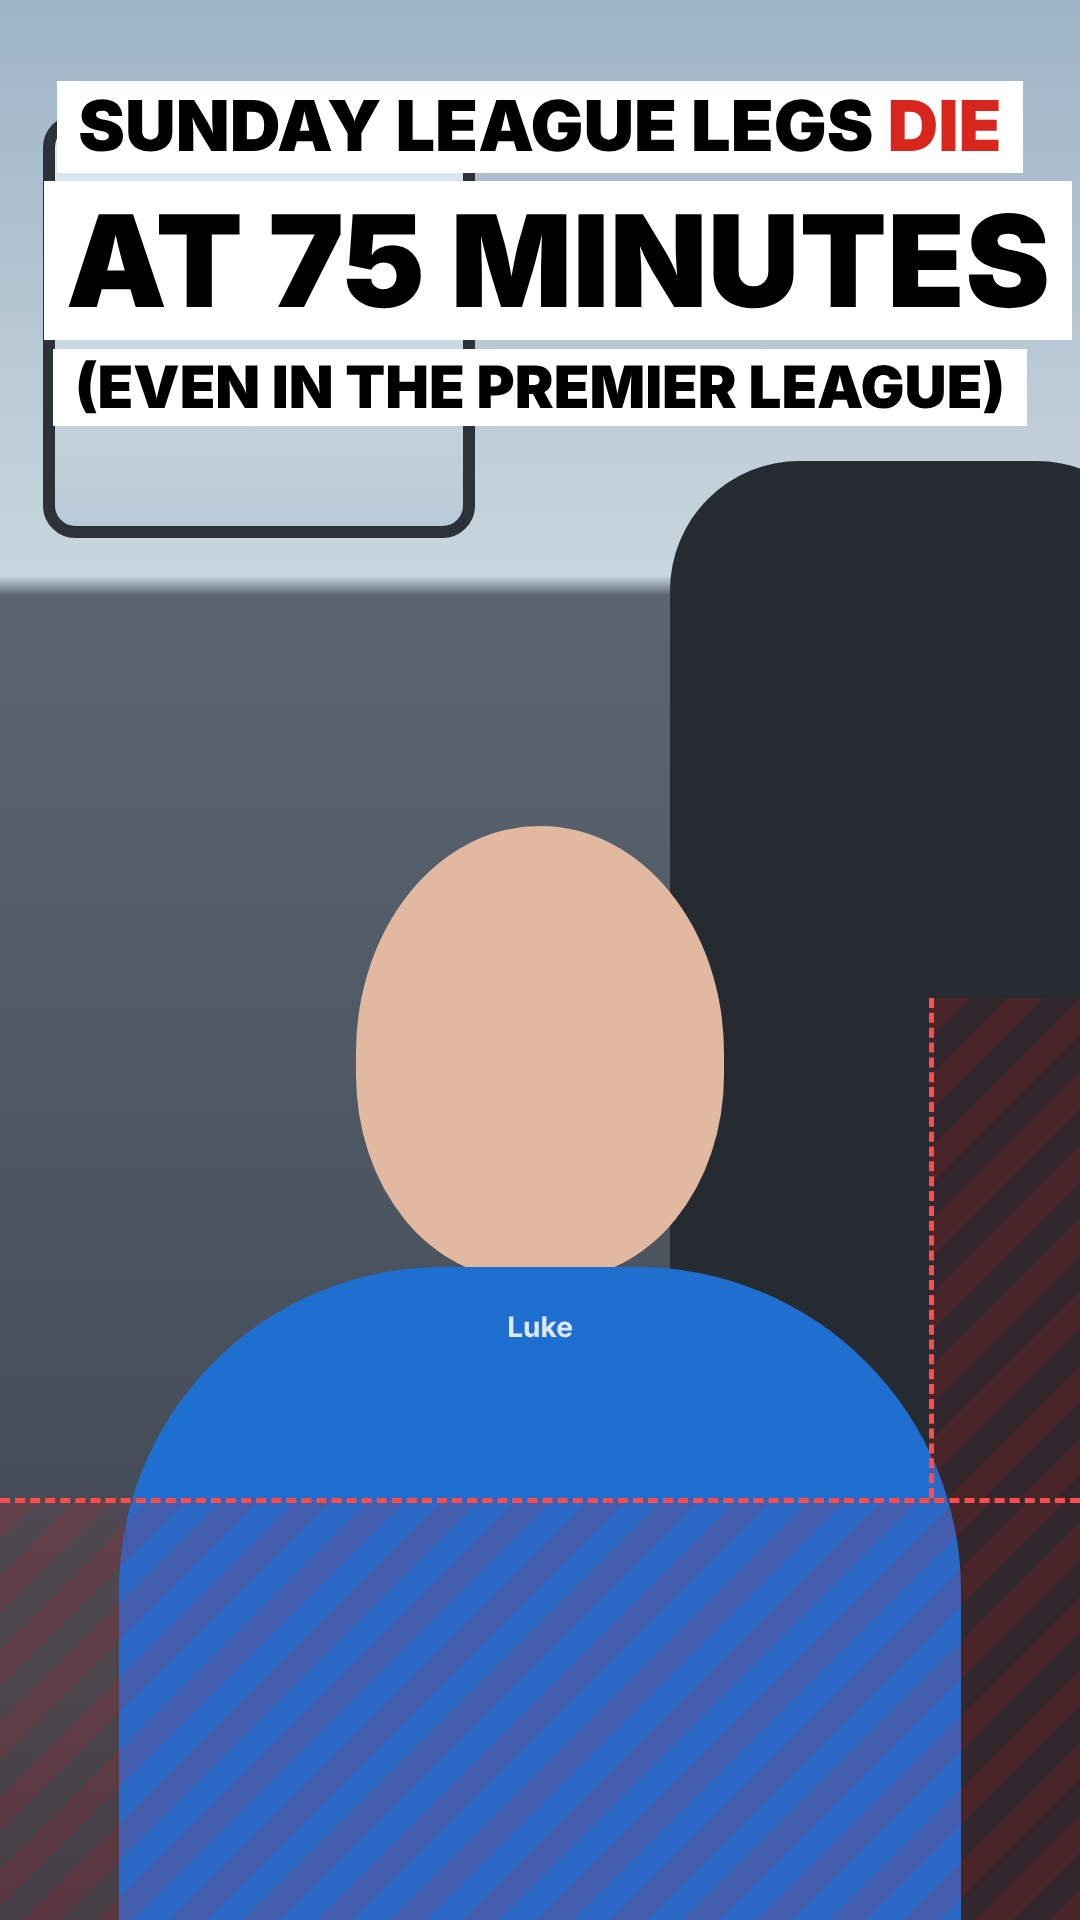
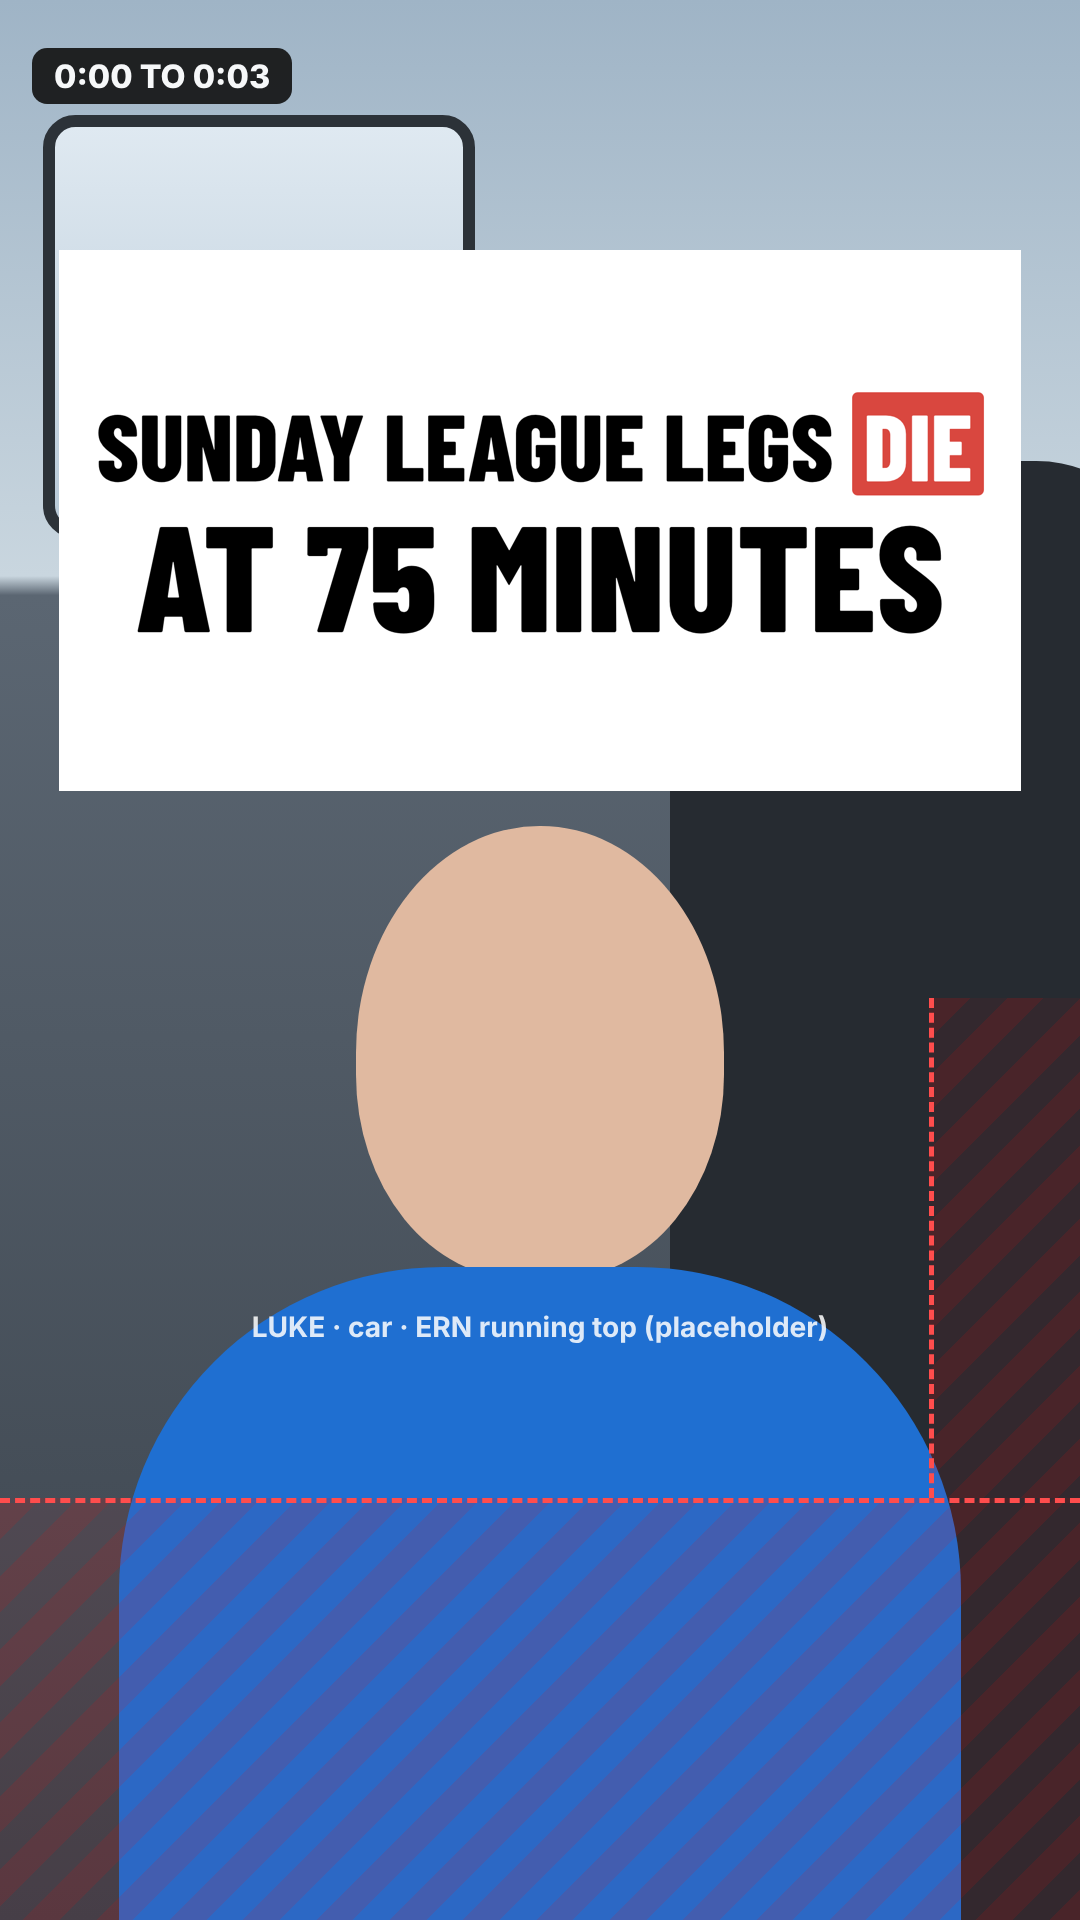
Match reel graphics: title cards (white and navy, 2 and 3 lines) and 9:16 overlays, the cover with a drawn wet-pitch scene, stage cards with source lines; frame one checked at phone size
Claude-Session: https://claude.ai/code/session_019dGKws7fHV6RYzHGcGrSoU

diff --git a/motion/match/cover.html b/motion/match/cover.html
@@ -1,0 +1,104 @@
+<!doctype html><html><head><meta charset="utf-8"><title>Match cover</title>
+<!-- Cover for SUNDAY LEAGUE LEGS DIE / AT 75 MINUTES (17 Nov), in the hour4-cover-16x9 layout: title left, drawn scene in a rounded panel right,
+     ERN logo bottom left. Characters from the hour4 scenes' engine (motion/hour4-scenes.html). ?lines=2|3 -->
+<style>
+@font-face{font-family:'Barlow Condensed';font-weight:800;src:url(../fonts/BarlowCondensed-800-normal.woff2) format('woff2');}
+*{margin:0;padding:0;box-sizing:border-box}
+html,body{width:1920px;height:1080px;overflow:hidden;background:#0c1828}
+.t{position:absolute;left:80px;top:0;bottom:0;width:900px;display:flex;flex-direction:column;justify-content:center}
+.l{font-family:'Barlow Condensed',sans-serif;font-weight:800;color:#fff;line-height:1.04;white-space:nowrap;width:max-content}
+.hl{background:#d9473f;color:#fff;padding:0 .12em;display:inline-block;line-height:1.1;border-radius:.08em}
+#panel{position:absolute;left:1040px;top:160px;width:840px;height:760px;border-radius:40px;overflow:hidden}
+.logo{position:absolute;left:80px;bottom:56px;height:76px}
+</style></head><body>
+<div class="t" id="t"></div><canvas id="panel" width="840" height="760"></canvas><img class="logo" src="../brand/ern-logo-white.png">
+<script>
+const D=Math.PI/180; const clamp=(x,a=0,b=1)=>Math.max(a,Math.min(b,x)); const lerp=(a,b,p)=>a+(b-a)*p;
+function rng(seed){return function(){seed|=0;seed=seed+0x6D2B79F5|0;let t=Math.imul(seed^seed>>>15,1|seed);t=t+Math.imul(t^t>>>7,61|t)^t;return((t^t>>>14)>>>0)/4294967296}}
+function shade(hex,k){const n=parseInt(hex.slice(1),16);const f=v=>Math.round(clamp(v*(1-k),0,255));return `rgb(${f(n>>16&255)},${f(n>>8&255)},${f(n&255)})`}
+const css=()=>'#1f7ae0';
+const cv=document.getElementById('panel'); let c=cv.getContext('2d');
+const SKIN=['#f1c7a3','#d8a07a','#a86f4c','#7a4a2e','#f3d2b8','#c98b62']; const HAIR=['#2a1d15','#6b4528','#c99a5b','#1a1a1a','#8a3b1f','#d9c3a0'];
+function seg(x1,y1,x2,y2,w,col){c.strokeStyle=col;c.lineWidth=w;c.beginPath();c.moveTo(x1,y1);c.lineTo(x2,y2);c.stroke()}
+function leg(hx,hy,a,k){const kx=hx+44*Math.sin(a*D),ky=hy+44*Math.cos(a*D),s=a+k,ax=kx+44*Math.sin(s*D),ay=ky+44*Math.cos(s*D),f=s+90;
+  return{kx,ky,ax,ay,fx:ax+15*Math.sin(f*D),fy:ay+15*Math.cos(f*D)}}
+function arm(sx,sy,a,e){const ex=sx+32*Math.sin(a*D),ey=sy+32*Math.cos(a*D),b=a+e;return{ex,ey,hx:ex+30*Math.sin(b*D),hy:ey+30*Math.cos(b*D)}}
+/* o: x, g (ground y), s (scale), f (1 faces right, -1 left), look, pose, plus colours; returns hand positions in screen space */
+function person(o){
+  const p=Object.assign({hipN:0,hipF:0,kneeN:0,kneeF:0,shN:6,shF:-6,elN:12,elF:12,lean:2,head:0,lift:0},o.pose||{});
+  const L=Object.assign({top:'#8aa0b8',shorts:'#2c3a4d',skin:SKIN[1],hair:HAIR[0],shoe:'#ffffff'},o.look||{});
+  c.save();c.translate(o.x,o.g);c.scale((o.f||1)*o.s,o.s);c.lineCap='round';c.lineJoin='round';
+  if(o.alpha!=null)c.globalAlpha=o.alpha;
+  const lN=leg(0,0,p.hipN,p.kneeN),lF=leg(0,0,p.hipF,p.kneeF);
+  const hipY=-(Math.max(lN.ay,lF.ay,lN.fy,lF.fy)+7)-p.lift;
+  const T=64,lx=Math.sin(p.lean*D),ly=-Math.cos(p.lean*D);
+  const sx=(T-8)*lx,sy=hipY+(T-8)*ly,nx=T*lx,ny=hipY+T*ly;
+  const hd=p.lean+p.head,hx=nx+19*Math.sin(hd*D),hy=ny-19*Math.cos(hd*D);
+  const aN=arm(sx,sy,p.shN,p.elN),aF=arm(sx,sy,p.shF,p.elF);
+  const drawLeg=(l,a,far)=>{const sk=far?shade(L.skin,.12):L.skin,sh=far?shade(L.shorts,.15):L.shorts;
+    seg(0,hipY,l.kx,l.ky+hipY,19,sk);seg(l.kx,l.ky+hipY,l.ax,l.ay+hipY,16,sk);
+    seg(0,hipY,l.kx*.55,l.ky*.55+hipY,25,sh);seg(l.ax,l.ay+hipY,l.fx,l.fy+hipY,14,far?shade(L.shoe,.12):L.shoe)};
+  const drawArm=(a,far)=>{const sk=far?shade(L.skin,.12):L.skin;seg(sx,sy,a.ex,a.ey,13,sk);seg(a.ex,a.ey,a.hx,a.hy,12,sk);
+    seg(sx,sy,lerp(sx,a.ex,.45),lerp(sy,a.ey,.45),17,far?shade(L.top,.15):L.top)};
+  drawArm(aF,true);drawLeg(lF,0,true);
+  seg(0,hipY-4,sx,sy,40,L.top);
+  if(L.bib){c.save();c.translate(lerp(0,sx,.45),lerp(hipY,sy,.45));c.rotate(p.lean*D);c.fillStyle='#fff';c.fillRect(4,-15,17,30);c.fillStyle=css('blue');c.fillRect(4,-15,17,7);c.restore()}
+  if(L.name){c.save();c.translate(lerp(0,sx,.32)+6*lx,lerp(hipY,sy,.32));c.rotate(p.lean*D);c.fillStyle='#0b0b0b';c.font='italic 800 21px Barlow';c.textAlign='center';c.textBaseline='middle';c.fillText(L.name,6,0);c.restore()}
+  drawLeg(lN,0,false);
+  if(o.prop==='sign'&&o.sign){} // signs are drawn by the caller at the hands
+  drawArm(aN,false);
+  c.fillStyle=L.skin;c.beginPath();c.arc(hx,hy,17,0,7);c.fill();
+  c.fillStyle=L.hair;c.beginPath();c.arc(hx,hy,18,Math.PI*.92+hd*D,Math.PI*1.9+hd*D);c.closePath();c.fill();
+  c.fillStyle='#1a1410';c.beginPath();c.arc(hx+9*Math.cos(hd*D)+3*Math.sin(hd*D),hy+3*Math.cos(hd*D)+9*Math.sin(hd*D)-2,2.6,0,7);c.fill();
+  if(L.pony){c.beginPath();c.arc(hx-14*Math.cos(hd*D),hy+2,7,0,7);c.fill()}
+  if(L.cap){c.fillStyle=L.cap;c.beginPath();c.arc(hx,hy,16.5,Math.PI*1.0+hd*D,Math.PI*2.0+hd*D);c.fill();seg(hx+4,hy-3,hx+24,hy-1,5,L.cap)}
+  c.restore();
+  const tf=(x,y)=>({x:o.x+(o.f||1)*o.s*x,y:o.g+o.s*y});
+  return{handN:tf(aN.hx,aN.hy),handF:tf(aF.hx,aF.hy),head:tf(hx,hy),chest:tf(lerp(0,sx,.5),lerp(hipY,sy,.5))}}
+function run(ph,amp=1,lean=9){const a=ph*Math.PI*2;return{hipN:32*amp*Math.sin(a),hipF:32*amp*Math.sin(a+Math.PI),
+  kneeN:-(10+85*amp*Math.max(0,Math.cos(a))),kneeF:-(10+85*amp*Math.max(0,Math.cos(a+Math.PI))),
+  shN:-30*amp*Math.sin(a),shF:30*amp*Math.sin(a),elN:88,elF:88,lean,lift:7*amp*Math.abs(Math.cos(a))}}
+function mix(a,b,p){const o={};for(const k in a)o[k]=lerp(a[k],b[k]!=null?b[k]:a[k],p);return o}
+const Q=new URLSearchParams(location.search), n=+(Q.get('lines')||3);
+// ---- the scene: a wet Sunday league pitch, overcast ----
+const W=840,H=760,GY=600;
+c.fillStyle='#dfe4e8';c.fillRect(0,0,W,H);                         // overcast sky
+const r=rng(11);
+c.fillStyle='#b9c6b5';for(let x=-40;x<W+40;x+=46){c.beginPath();c.arc(x,330+r()*14,40+r()*18,0,7);c.fill()}   // far hedge
+c.fillStyle='#9fb39a';c.fillRect(0,330,W,26);
+c.fillStyle='#8a96a6';for(let x=40;x<W;x+=260){c.fillRect(x,250,6,110)}                                     // far fence posts
+c.fillStyle='#7fae6f';c.fillRect(0,356,W,H-356);                    // pitch
+for(let i=0;i<8;i++){c.fillStyle=i%2?'#78a868':'#86b576';c.beginPath();c.moveTo(-200+i*150,H);c.lineTo(-80+i*150,356);c.lineTo(-20+i*150,356);c.lineTo(-50+i*150,H);c.fill()}  // mown stripes
+c.strokeStyle='rgba(255,255,255,.85)';c.lineWidth=6;c.beginPath();c.moveTo(0,402);c.lineTo(W,388);c.stroke();   // touchline
+// mud and puddles
+const mud=(x,y,rx,ry,a)=>{c.fillStyle=`rgba(110,84,58,${a})`;c.beginPath();c.ellipse(x,y,rx,ry,0,0,7);c.fill()};
+mud(330,612,170,30,.55);mud(250,630,90,16,.45);mud(560,660,120,20,.35);
+c.fillStyle='rgba(205,220,232,.75)';c.beginPath();c.ellipse(640,700,90,14,0,0,7);c.fill();c.fillStyle='rgba(255,255,255,.5)';c.fillRect(600,697,40,3);
+c.fillStyle='rgba(20,30,20,.18)';c.beginPath();c.ellipse(320,GY+4,95,12,0,0,7);c.fill();c.beginPath();c.ellipse(700,GY+2,80,10,0,0,7);c.fill();
+// the tired player: plain off-white kit, muddy, hands on knees, facing right
+const TIRED={hipN:34,hipF:24,kneeN:-44,kneeF:-36,shN:-24,shF:-30,elN:0,elF:2,lean:66,head:-36,lift:0};
+const p1=person({x:300,g:GY,s:2.35,f:1,look:{top:'#ece8df',shorts:'#1f2a37',skin:SKIN[0],hair:HAIR[1],shoe:'#1a1a1a'},pose:TIRED});
+// mud on the kit and socks
+c.save();c.globalAlpha=.55;c.fillStyle='#7a5a3c';
+[[p1.chest.x+18,p1.chest.y+30,26,12],[p1.chest.x-30,p1.chest.y+6,16,10],[p1.chest.x+40,p1.chest.y-20,12,8]].forEach(([x,y,a,b])=>{c.beginPath();c.ellipse(x,y,a,b,.4,0,7);c.fill()});
+c.restore();
+// breath clouds
+c.fillStyle='rgba(255,255,255,.7)';[[p1.head.x+46,p1.head.y+14,14],[p1.head.x+70,p1.head.y+6,10],[p1.head.x+88,p1.head.y+2,7]].forEach(([x,y,R])=>{c.beginPath();c.arc(x,y,R,0,7);c.fill()});
+// the opponent: red kit, sprinting in from the right onto the ball
+const RUN=run(.12,1.15,14);
+person({x:700,g:GY,s:2.0,f:-1,look:{top:'#d9473f',shorts:'#d9473f',skin:SKIN[2],hair:HAIR[3],shoe:'#f5f5f5'},pose:RUN});
+// the ball rolling past, with spray
+const bx=520,by=GY-22,R=22;
+c.strokeStyle='rgba(255,255,255,.8)';c.lineWidth=5;c.lineCap='round';[[0,-12],[8,2],[0,14]].forEach(([dx,dy])=>{c.beginPath();c.moveTo(bx-40+dx,by+dy);c.lineTo(bx-90+dx,by+dy);c.stroke()});
+c.fillStyle='rgba(205,220,232,.9)';[[bx-30,by+18,5],[bx-48,by+12,4],[bx-60,by+20,3]].forEach(([x,y,r2])=>{c.beginPath();c.arc(x,y,r2,0,7);c.fill()});
+c.fillStyle='#fff';c.beginPath();c.arc(bx,by,R,0,7);c.fill();c.strokeStyle='#1d2433';c.lineWidth=3;c.stroke();
+c.fillStyle='#1d2433';const pent=(x,y,s)=>{c.beginPath();for(let i=0;i<5;i++){const a=-Math.PI/2+i*2*Math.PI/5;c.lineTo(x+s*Math.cos(a),y+s*Math.sin(a))}c.closePath();c.fill()};
+pent(bx,by,7);pent(bx+14,by-12,5);pent(bx-15,by+8,5);pent(bx+12,by+13,4);
+c.fillStyle='rgba(110,84,58,.5)';c.beginPath();c.ellipse(bx+6,by+14,10,4,0,0,7);c.fill();
+// ---- the title ----
+const t=document.getElementById('t');
+const add=(h,fs)=>{const d=document.createElement('div');d.className='l';d.innerHTML=h;d.style.fontSize=fs+'px';t.appendChild(d);return d};
+const ls=[add('SUNDAY LEAGUE LEGS <span class="hl">DIE</span>',120),add('AT 75 MINUTES',150)];
+if(n===3) ls.push(add('(EVEN IN THE PREMIER LEAGUE)',84));
+document.fonts.load("800 100px 'Barlow Condensed'").then(()=>{ls.forEach(d=>{let fs=parseFloat(d.style.fontSize);while(d.getBoundingClientRect().width>900&&fs>30){fs-=2;d.style.fontSize=fs+'px'}});document.title='fitted'});
+</script></body></html>

diff --git a/motion/match/cards.html b/motion/match/cards.html
@@ -1,0 +1,43 @@
+<!doctype html><html><head><meta charset="utf-8"><title>Match cards</title>
+<!-- SUNDAY LEAGUE LEGS DIE / AT 75 MINUTES / (EVEN IN THE PREMIER LEAGUE) (17 Nov): title cards and stage cards, 16:9.
+     ?c=title&theme=white|navy&lines=2|3   or   ?c=stage&n=1a|1b|2|3|4|study -->
+<style>
+@font-face{font-family:'Barlow Condensed';font-weight:800;src:url(../fonts/BarlowCondensed-800-normal.woff2) format('woff2');}
+@font-face{font-family:Inter;src:url(../fonts/Inter-400-normal.woff2) format('woff2');font-weight:100 900;}
+*{margin:0;padding:0;box-sizing:border-box}
+html,body{width:1920px;height:1080px;overflow:hidden}
+body.navy{background:#0c1828;color:#fff} body.white{background:#fff;color:#000}
+.w{position:absolute;inset:0;display:flex;flex-direction:column;justify-content:center;padding:0 150px}
+.white .w{align-items:center;padding:0 70px}
+.l{font-family:"Barlow Condensed",sans-serif;font-weight:800;line-height:1.02;white-space:nowrap;width:max-content}
+.hl{background:#d9473f;color:#fff;padding:0 .12em;display:inline-block;line-height:1.1;border-radius:.06em}
+.navy .hl{border-radius:.1em}
+.blue{background:#1f7ae0;color:#fff;padding:0 .14em;border-radius:.1em;display:inline-block;line-height:1.1}
+.eb{font-family:'Barlow Condensed',sans-serif;font-weight:800;font-size:72px;letter-spacing:6px;color:#9fb0c6;margin-bottom:18px}
+.src{font-family:Inter,sans-serif;font-weight:600;font-size:62px;line-height:1.3;color:#c9d3e0;margin-top:34px;letter-spacing:.5px}
+</style></head><body><div class="w" id="w"></div>
+<script>
+const Q=new URLSearchParams(location.search), c=Q.get('c')||'title', theme=Q.get('theme')||'navy';
+document.body.className=c==='title'?theme:'navy';
+const w=document.getElementById('w'); const fits=[];
+function line(html,cap,maxW){const d=document.createElement('div');d.className='l';d.innerHTML=html;w.appendChild(d);fits.push([d,cap,maxW]);return d}
+if(c==='title'){
+  const n=+(Q.get('lines')||3), maxW=theme==='white'?1780:1620;
+  line('SUNDAY LEAGUE LEGS <span class="hl">DIE</span>',210,maxW);
+  line('AT 75 MINUTES',300,maxW);
+  if(n===3) line('(EVEN IN THE PREMIER LEAGUE)',150,maxW);
+} else {
+  const S={ '1a':['STAGE 1','THE DAY <span class="blue">BEFORE</span>','28 PREMIER LEAGUE MATCHES, 2005-06 (BRADLEY 2009)'],
+            '1b':['STAGE 1','THE DAY <span class="blue">BEFORE</span>','6 PLAYERS, 90-MIN 4-A-SIDE (BALSOM 1999)'],
+            '2':['STAGE 2','3 HOURS <span class="blue">BEFORE</span>','UEFA EXPERT GROUP, 2021'],
+            '3':['STAGE 3','WARM-UP AND <span class="blue">HALF-TIME</span>','ARSENAL, 1996'],
+            '4':['STAGE 4','THE <span class="blue">LAST 15</span> MINUTES','15 PLAYERS, 90-MIN MATCH TEST (HARPER 2017)'],
+            'study':['THE STUDY','DANISH <span class="blue">FOURTH DIVISION</span>','31 PLAYERS (KRUSTRUP 2006)']}[Q.get('n')||'1a'];
+  const e=document.createElement('div');e.className='eb';e.textContent=S[0];w.appendChild(e);
+  line(S[1],230,1620);
+  const s=document.createElement('div');s.className='src';s.textContent=S[2];w.appendChild(s);
+}
+document.fonts.load("800 100px 'Barlow Condensed'").then(()=>document.fonts.load("600 40px Inter")).then(()=>{
+  fits.forEach(([d,cap,maxW])=>{let fs=cap;d.style.fontSize=fs+'px';while(d.getBoundingClientRect().width>maxW&&fs>40){fs-=2;d.style.fontSize=fs+'px';}});
+  document.title='fitted';});
+</script></body></html>

diff --git a/CLAUDE.md b/CLAUDE.md
@@ -222,7 +222,9 @@ a new cause becomes a new row in the same turn.**
 
 **Podcast name (17 Nov, recommended, plan 0.11): ON FUMES, running, sport and fuel, by Engine Room** (runner-up Dead Legs; The Race Plan rejected by Luke as generic, P217; FTYD kept as the Jan video title; "The Engine Room" is an existing endurance podcast). **Master podcast plan + episode template: Claude doc https://claude.ai/artifact/6LftEYohSrQKg6iTE96QpG.** **Fri 20 Nov: record podcast episode 1, THE BETS (v2, P216: equal co-hosts, both bets in the open, a one-page cue card, no crew; Luke Art O'Neill top 10 in class 10:35, Jamie Western Yards top 10; title 8 WEEKS OR 28; v3: four rounds (on the record, why you won't make it, 8 weeks or 28, myth or fact for points), listener-picked forfeit, season scoreboard)** (`podcast/2026-11-20-episode-1-run-of-show.md`); **out Sunday 22 Nov, then weekly on Sundays; the result episode Sun 17 Jan.** Art O'Neill 62km, Fri 15 Jan, target settled: top 10 in the Ultra - Male class, 10:35:37 last year (say "in my class"); Jamie's copy of the run of show is a Claude doc (https://claude.ai/artifact/EW9WBoUzRLxujMCSU7U9a4); Norn Iron 100 29 to 30 May (~106 miles); Western Yards listed 5 June (to confirm). P214 look it up yourself; P215 jobs fine, no "better at work". **17 Nov, podcast challenge (dates, plan 0.8):** season 1 TOP 10 BY 15 JANUARY, Luke's Art O'Neill (Fri 15 Jan 2027, ranked), 8 episodes 9 Dec to the result 20 Jan; season 2 MAY HEAD TO HEAD, Luke's Norn Iron 100 and Jamie's Western Yards Backyard; record Luke's bet + a benchmark run this week; need last year's 10th-place time; your race is the story, their marathon the lesson (plan 0.7; race facts unconfirmed in FACTS). Chats (Luke, 17 Nov): "Podcast - Riverside" does `podcast/`; a new "YouTube long-form" chat does `youtube/` (monthly videos, first the 2027 framework); reels chats unchanged (`podcast/README.md`). P213: do it, don't tell Luke how. **17 Nov, podcast v2 (P212, Luke: a show we enjoy; long-form separate):** plan section 0: 25 to 30 minutes, fixed first minute, loose chat under chapters, quick-fire clip section, Luke vs Jamie spring rivalry; long-form monthly from early Jan, first the 2027 FRAMEWORK video, uncut, own email reason. v1: `podcast/2026-11-17-podcast-plan.md`. 20 to 25 minutes, one searchable question, 7 fixed parts starting from a real runner in the inbox (the ~200 plans are the authority, not our times); Luke the numbers, Jamie the listener's voice; season 1 ROAD TO SPRING, 10 episodes from Wed 9 Dec (3 at once) to Seville; it is the long-form YouTube for season 1; clips to TikTok, Shorts and IG trial reels, the best rewritten as a gated profile reel; the bar from January via the Lab, within UK/EU claims rules; episode 0 unpublished the week of 23 Nov. Waiting on Luke's 6 answers (rooms, spring races, Jamie, samples, email day, was the Dublin episode recorded).
 
-**16 Nov, match reel brief: SUNDAY LEAGUE LEGS DIE / IN THE LAST 15 / (SO DO THE PROS)** (10/10, DIE in red; soccer only; A/B YOUR LEGS AREN'T GONE / IN THE LAST 15. / THEY'RE EMPTY., 9/10; Mohr 2003, Krustrup 2006, Balsom 1999, Harper 2017, Anderson 2017, Wenger's Mars bars; IG trial Sat 21 Nov 7am; needs Luke's yes and the grams in FACTS; `ideas/engine-room-nutrition/2026-11-16-brief-match-last-15.md`). **16 Nov: the heavier carousel posted.** **Tue 17 Nov: ULTRARUNNERS WALK / ON PURPOSE. / MARATHONERS WALK AT 32K** (10/10, AT 32K in red; Hottenrott 2016 run/walk study; `ideas/engine-room-nutrition/2026-11-16-brief-walk-on-purpose.md`). Luke: post something tomorrow; the shoes script stays unposted. Three ideas killed on 16 Nov: the water reel (contradicts our gel-with-water advice), FINISHER → RACER → HUNTER (sorts and blames the viewer), £250 SHOES MAKE SOME... (a known debate; SOME lets everyone out; the study measured economy, not race times; the payoff blames pacing, not shoes). The five levers under every winner and the tightened scorecard: `ideas/engine-room-nutrition/2026-11-16-premortem-psychology.md`. Next filmed reel Wed or Thu, built from the levers first. 5 TACTICS to April.
+**16 Nov, match reel brief: SUNDAY LEAGUE LEGS DIE / IN THE LAST 15 / (SO DO THE PROS)** (10/10, DIE in red; soccer only; A/B YOUR LEGS AREN'T GONE / IN THE LAST 15. / THEY'RE EMPTY., 9/10; Mohr 2003, Krustrup 2006, Balsom 1999, Harper 2017, Anderson 2017, Wenger's Mars bars; IG trial Sat 21 Nov 7am; needs Luke's yes and the grams in FACTS; `ideas/engine-room-nutrition/2026-11-16-brief-match-last-15.md`). **17 Nov: match reel graphics** (SUNDAY LEAGUE LEGS DIE / AT 75 MINUTES / (EVEN IN THE PREMIER LEAGUE)): title cards white and navy, 2 and 3 lines, 9:16 overlays, cover (drawn pitch scene), stage cards with source lines, all in `motion/match/`.
+
+**16 Nov: the heavier carousel posted.** **Tue 17 Nov: ULTRARUNNERS WALK / ON PURPOSE. / MARATHONERS WALK AT 32K** (10/10, AT 32K in red; Hottenrott 2016 run/walk study; `ideas/engine-room-nutrition/2026-11-16-brief-walk-on-purpose.md`). Luke: post something tomorrow; the shoes script stays unposted. Three ideas killed on 16 Nov: the water reel (contradicts our gel-with-water advice), FINISHER → RACER → HUNTER (sorts and blames the viewer), £250 SHOES MAKE SOME... (a known debate; SOME lets everyone out; the study measured economy, not race times; the payoff blames pacing, not shoes). The five levers under every winner and the tightened scorecard: `ideas/engine-room-nutrition/2026-11-16-premortem-psychology.md`. Next filmed reel Wed or Thu, built from the levers first. 5 TACTICS to April.
 
 **Posted 15 Nov 7:43pm: 4-HOUR MARATHONS DIE / IN HOUR 4 / (EVEN THE FIT ONES).** **Day 2 via Windsor (17 Nov, IG only): 18,023 views, skip 26.9%, 31.6s, 277 saves, 75 shares.** Windsor.ai for Social Media is connected (ERN Instagram only; TikTok not being added for now, Luke 17 Nov, so TikTok numbers stay as screenshots): Claude pulls per-reel views, reach, skip, watch time, saves, shares; the curve, sources and follows still need screenshots. At ~12h: IG + FB **14,995 (8,724 IG, 6,271 FB), skip 27.0%, 29s, saves 1.7%, shares 0.4%, likes 1.5%**, still climbing; TikTok 3,812, 14.9s, **8 follows**. Our best since September. Frame one on the brief for the first time in five posts (white title card full width, DIE in red, Luke alone, eyes on the lens): skip 60.5% (wall) to 27.0% in the same week. Luke's line one killed the 90-minute myth with proof. The evening rule was wrong (P144 already said time doesn't predict views). Template: this frame one; the myth killed first; the fuel lane with new twists. `ideas/2026-11-16-fourth-hour-review.md`.
 

diff --git a/ideas/engine-room-nutrition/2026-11-17-script-match-last-15.md b/ideas/engine-room-nutrition/2026-11-17-script-match-last-15.md
@@ -23,6 +23,7 @@ format: Instagram trial reel from ERN (non-followers; auto-share off, no collabo
 - Turn: "When Danish fourth-division players had muscle taken from their legs after a match, about half the fibres were nearly empty."
 - Frame one: Luke and the title only, top band, full width, black bold on white, DIE in red (P205, P207); nothing else until stage 1; Luke in a football top or plain top, not a running top
 - Frame one words: title only
+- Graphics (17 Nov, gate chat): title cards `motion/match/match-title-{white,navy}-{2,3}line-16x9.png` and 9:16 overlays `...-overlay-9x16.png` (white recommended: the posted fourth-hour card was white); cover `motion/match/match-cover-{2,3}line-16x9.png`; stage cards `motion/match/match-card-{1a,1b,2,3,4,study}-16x9.png` (pages `motion/match/cards.html`, `motion/match/cover.html`)
 - Mockup: ideas/engine-room-nutrition/mockups/2026-11-17-match-frame-one.png
 - Layer title: Sunday league legs die at 75 minutes, and Premier League ones fade too (why? and what fixes it?)
 - Layer picture: none (Luke and the title)
